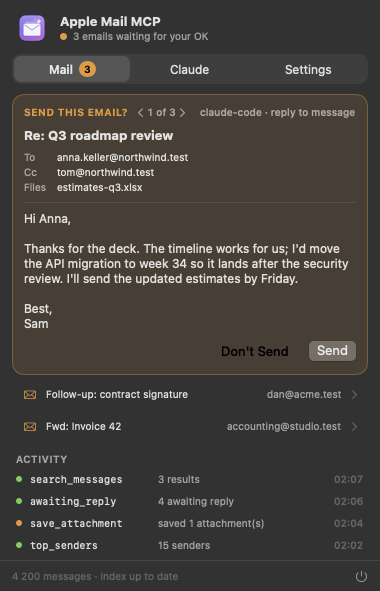
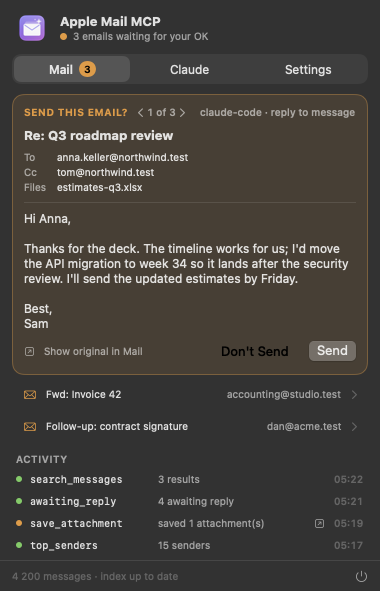
Show in Mail from activity rows and send approvals

diff --git a/Sources/MailMCPKit/Tools+Compose.swift b/Sources/MailMCPKit/Tools+Compose.swift
@@ -113,7 +113,7 @@ extension MailToolbox {
             let draftID = mode == .draft ? await self.settleDraft(handle, subject: subject, after: started) : nil
             return ToolReply(
                 json: .obj(self.draftResult(mode, draftID: draftID) + [("to", .array(to.map { .string($0) })), ("subject", .string(subject))]),
-                summary: "\(mode.rawValue): \(Render.truncate(subject, 60))")
+                summary: "\(mode.rawValue): \(Render.truncate(subject, 60))", messageID: draftID)
         }
     }
 
@@ -175,7 +175,8 @@ extension MailToolbox {
                 recipients = recipients.filter { seen.insert($0.lowercased()).inserted }
                 try await self.authorizeSend(
                     tool: "reply_to_message", from: nil, to: recipients,
-                    cc: cc, bcc: bcc, subject: subject, body: body, attachments: attachments)
+                    cc: cc, bcc: bcc, subject: subject, body: body, attachments: attachments,
+                    originalLink: original.summary.mailLink)
             }
             let started = (try? self.store.maxMessageRowID()) ?? .max
             let handle = try await automation.reply(
@@ -184,7 +185,7 @@ extension MailToolbox {
             let draftID = mode == .draft ? await self.settleDraft(handle, subject: subject, after: started) : nil
             return ToolReply(
                 json: .obj(self.draftResult(mode, draftID: draftID) + [("in_reply_to", .int(id)), ("subject", .string(subject))]),
-                summary: "reply \(mode.rawValue): \(Render.truncate(subject, 60))")
+                summary: "reply \(mode.rawValue): \(Render.truncate(subject, 60))", messageID: draftID ?? id)
         }
     }
 
@@ -272,7 +273,8 @@ extension MailToolbox {
             let body = Self.forwardedBody(note: note, original: original)
             if mode == .send {
                 try await self.authorizeSend(
-                    tool: "forward_message", from: nil, to: to, cc: cc, bcc: bcc, subject: subject, body: body, attachments: files)
+                    tool: "forward_message", from: nil, to: to, cc: cc, bcc: bcc, subject: subject, body: body, attachments: files,
+                    originalLink: original.summary.mailLink)
             }
             let started = (try? self.store.maxMessageRowID()) ?? .max
             let handle = try await automation.compose(
@@ -285,7 +287,7 @@ extension MailToolbox {
                     ("attachments", files.isEmpty ? nil : .int(Int64(files.count))),
                     ("attachments_not_downloaded", skipped > 0 ? .int(Int64(skipped)) : nil),
                 ]),
-                summary: "forward \(mode.rawValue): \(Render.truncate(subject, 60))")
+                summary: "forward \(mode.rawValue): \(Render.truncate(subject, 60))", messageID: draftID ?? id)
         }
     }
 
@@ -302,7 +304,7 @@ extension MailToolbox {
             // A message:// link needs no Apple Events or automation permission.
             if let link = message.mailLink, let url = URL(string: link) {
                 let opened = await MainActor.run { NSWorkspace.shared.open(url) }
-                if opened { return ToolReply(json: .obj([("opened", .int(id))]), summary: "opened \(id)") }
+                if opened { return ToolReply(json: .obj([("opened", .int(id))]), summary: "opened \(id)", messageID: id) }
             }
             guard let mailbox = try store.mailbox(id: message.mailboxID) else { throw ToolError("Mailbox of message \(id) not found") }
             try await automation.open(id, in: MailboxTarget(mailbox))

diff --git a/Sources/MailMCPKit/MailToolbox.swift b/Sources/MailMCPKit/MailToolbox.swift
@@ -19,6 +19,8 @@ public enum ToolKind: String, Sendable {
 public struct ToolReply: Sendable {
     public var json: JSON
     public var summary: String
+    /// The message this call was about (or the draft it saved): the menu bar app offers "Show in Mail".
+    public var messageID: Int64? = nil
 }
 
 public struct ToolDefinition: Sendable {
@@ -193,7 +195,7 @@ public final class MailToolbox: @unchecked Sendable {
     /// Applies the send policy; may wait for approval in the menu bar app.
     func authorizeSend(
         tool: String, from: String?, to: [String], cc: [String], bcc: [String], subject: String, body: String,
-        attachments: [String]
+        attachments: [String], originalLink: String? = nil
     ) async throws {
         let current = settings.current
         switch current.sendPolicy {
@@ -209,7 +211,7 @@ public final class MailToolbox: @unchecked Sendable {
             let request = ApprovalRequest(
                 id: UUID(), created: Date(), tool: tool, client: clientName, from: from, to: to, cc: cc, bcc: bcc,
                 subject: subject, bodyPreview: Render.truncate(body, 600), attachments: attachments.map { ($0 as NSString).lastPathComponent },
-                status: .pending, decided: nil)
+                status: .pending, decided: nil, originalLink: originalLink)
             switch try await approvals.requestApproval(request, timeout: current.approvalTimeout) {
             case .approved: return
             case .denied: throw ToolError("The user declined to send this message. Nothing was sent.")
@@ -238,10 +240,12 @@ public final class MailToolbox: @unchecked Sendable {
         var ok = true
         var text: String
         var summary: String
+        var link: String?
         do {
             let reply = try await definition.run(Arguments(arguments))
             text = reply.json.serialized()
             summary = reply.summary
+            if let id = reply.messageID { link = (try? store.message(id: id))?.mailLink }
         } catch {
             ok = false
             text = "Error: \(error)"
@@ -252,7 +256,7 @@ public final class MailToolbox: @unchecked Sendable {
             ActivityEntry(
                 date: started, pid: ProcessInfo.processInfo.processIdentifier, client: clientName, tool: name, ok: ok,
                 milliseconds: Int(Date().timeIntervalSince(started) * 1000), summary: Render.truncate(summary, 160),
-                isWrite: definition.kind != .read))
+                isWrite: definition.kind != .read, link: link))
         return .init(content: [.text(text: text, annotations: nil, _meta: nil)], isError: ok ? nil : true)
     }
 

diff --git a/Sources/MailMCPBar/Views.swift b/Sources/MailMCPBar/Views.swift
@@ -386,10 +386,35 @@ struct ActivityRow: View {
             Text(entry.tool).font(.caption.monospaced()).frame(width: 120, alignment: .leading)
             Text(entry.summary).font(.caption).foregroundStyle(.secondary).lineLimit(1)
             Spacer(minLength: 4)
+            if let link = entry.link, let url = URL(string: link) {
+                ShowInMailButton(url: url, compact: true)
+            }
             Text(entry.date, format: .dateTime.hour().minute()).font(.caption2.monospacedDigit()).foregroundStyle(.tertiary)
         }
         .frame(height: 22)
         .help("\(entry.client ?? "unknown client") · \(entry.milliseconds) ms\(entry.ok ? "" : " · failed")")
+    }
+}
+
+/// Opens a message in Mail through its `message://` link (no Apple Events, no permission needed).
+struct ShowInMailButton: View {
+    let url: URL
+    var compact: Bool
+    var title = "Show in Mail"
+
+    var body: some View {
+        Button {
+            NSWorkspace.shared.open(url)
+        } label: {
+            if compact {
+                Image(systemName: "arrow.up.forward.app").font(.caption)
+            } else {
+                Label(title, systemImage: "arrow.up.forward.app").font(.caption)
+            }
+        }
+        .buttonStyle(.borderless)
+        .help(title)
+        .accessibilityLabel(title)
     }
 }
 
@@ -498,6 +523,9 @@ struct ApprovalBlock: View {
             Divider()
             Text(request.bodyPreview).font(.callout).lineLimit(10).fixedSize(horizontal: false, vertical: true)
             HStack {
+                if let link = request.originalLink, let url = URL(string: link) {
+                    ShowInMailButton(url: url, compact: false, title: "Show original in Mail")
+                }
                 Spacer()
                 Button("Don't Send", role: .cancel) { decide(false) }.glassButton()
                 Button("Send") { decide(true) }.glassButton(prominent: true).keyboardShortcut(.defaultAction)

diff --git a/Tests/MailMCPKitTests/ToolTests.swift b/Tests/MailMCPKitTests/ToolTests.swift
@@ -147,6 +147,10 @@ final class ReadToolTests {
         #expect(entries.first?.tool == "get_message")
         #expect(entries.first?.ok == true)
         #expect(entries.first?.summary.contains("Kubernetes") == false)
+        // The menu bar app's "Show in Mail" uses this link.
+        #expect(entries.first?.link == "message://%3Ckickoff@example.test%3E")
+        _ = await h.call("search_messages", ["subject": "kickoff"])
+        #expect(h.toolbox.activity?.recent().first?.link == nil)
     }
 }
 
@@ -350,6 +354,27 @@ final class ComposeToolTests {
         #expect(denied.isError && denied.text.contains("declined"))
         #expect(h.automation.calls == [.compose(OutgoingMessage(to: ["a@x.test"], subject: "Approved", body: "y"), .send)])
         #expect(approvals.pending().isEmpty)
+    }
+
+    @Test func replyApprovalLinksToTheOriginal() async throws {
+        var settings = Settings()
+        settings.sendPolicy = .confirm
+        settings.approvalTimeout = 10
+        let h = try Harness(settings: settings)
+        defer { h.remove() }
+        h.approvals.beat()
+        let approvals = h.approvals
+        let agent = Task { () -> String? in
+            while true {
+                if let request = approvals.pending().first {
+                    try approvals.decide(request.id, approve: false)
+                    return request.originalLink
+                }
+                try await Task.sleep(nanoseconds: 50_000_000)
+            }
+        }
+        _ = await h.call("reply_to_message", ["id": .int(Int(h.id("kickoff"))), "body": "ok", "mode": "send"])
+        #expect(try await agent.value == "message://%3Ckickoff@example.test%3E")
     }
 
     @Test func forwardComposesWithOriginalAndAttachments() async throws {

diff --git a/Sources/MailMCPKit/Tools+Read.swift b/Sources/MailMCPKit/Tools+Read.swift
@@ -248,7 +248,7 @@ extension MailToolbox {
                 ("headers", try arguments.bool("include_headers") ?? false
                     ? .array(detail.headers.map { .string("\($0.name): \($0.value)") }) : nil),
             ])
-            return ToolReply(json: json, summary: "message \(id)")
+            return ToolReply(json: json, summary: "message \(id)", messageID: id)
         }
     }
 
@@ -294,7 +294,9 @@ extension MailToolbox {
                 }
                 return .obj(entry)
             }
-            return ToolReply(json: .obj([("count", .int(Int64(items.count))), ("messages", .array(items))]), summary: "\(items.count) in thread")
+            return ToolReply(
+                json: .obj([("count", .int(Int64(items.count))), ("messages", .array(items))]), summary: "\(items.count) in thread",
+                messageID: messages.last?.id ?? id)
         }
     }
 
@@ -310,7 +312,7 @@ extension MailToolbox {
             let detail = try store.detail(id: id)
             return ToolReply(
                 json: .obj([("id", .int(id)), ("attachments", .array(detail.attachments.map(Self.attachmentJSON)))]),
-                summary: "\(detail.attachments.count) attachments")
+                summary: "\(detail.attachments.count) attachments", messageID: id)
         }
     }
 
@@ -339,7 +341,7 @@ extension MailToolbox {
             if truncated { text = String(decoding: text.utf8.prefix(maxBytes), as: UTF8.self) }
             return ToolReply(
                 json: .obj([("id", .int(id)), ("source", .string(text)), ("truncated", truncated ? .bool(true) : nil)]),
-                summary: "\(text.utf8.count) bytes")
+                summary: "\(text.utf8.count) bytes", messageID: id)
         }
     }
 

diff --git a/Sources/mail-bench/main.swift b/Sources/mail-bench/main.swift
@@ -425,10 +425,12 @@ case "demo":
         ("awaiting_reply", "4 awaiting reply", 47, true, false, 90),
         ("search_messages", "3 results", 44, true, false, 20),
     ]
+    let messageTools: Set<String> = ["get_thread", "get_message", "reply_to_message", "move_messages", "save_attachment"]
     for (tool, summary, ms, ok, write, ago) in entries {
         log.append(ActivityEntry(
             date: Date().addingTimeInterval(-ago), pid: 4242, client: "claude-code", tool: tool, ok: ok,
-            milliseconds: ms, summary: summary, isWrite: write))
+            milliseconds: ms, summary: summary, isWrite: write,
+            link: messageTools.contains(tool) ? "message://%3Cdemo-\(Int(ago))@northwind.test%3E" : nil))
     }
     let approvals = ApprovalCenter(directory: support.appending(path: "approvals"), heartbeat: support.appending(path: "agent.heartbeat"))
     if options.values["approval"] != nil {
@@ -443,7 +445,8 @@ case "demo":
             id: UUID(), created: Date().addingTimeInterval(-5), tool: "reply_to_message", client: "claude-code", from: nil,
             to: ["anna.keller@northwind.test"], cc: ["tom@northwind.test"], bcc: [], subject: "Re: Q3 roadmap review",
             bodyPreview: "Hi Anna,\n\nThanks for the deck. The timeline works for us; I'd move the API migration to week 34 so it lands after the security review. I'll send the updated estimates by Friday.\n\nBest,\nSam",
-            attachments: ["estimates-q3.xlsx"], status: .pending, decided: nil))
+            attachments: ["estimates-q3.xlsx"], status: .pending, decided: nil,
+            originalLink: "message://%3Croadmap@northwind.test%3E"))
     }
     report = """
         Demo data in \(folder.path). Run the app with:

diff --git a/Sources/MailMCPKit/Tools+Write.swift b/Sources/MailMCPKit/Tools+Write.swift
@@ -63,7 +63,7 @@ extension MailToolbox {
                 try data.write(to: URL(filePath: path), options: .atomic)
                 saved.append(.obj([("path", .string(path)), ("bytes", .int(Int64(data.count)))]))
             }
-            return ToolReply(json: .obj([("saved", .array(saved))]), summary: "saved \(saved.count) attachment(s)")
+            return ToolReply(json: .obj([("saved", .array(saved))]), summary: "saved \(saved.count) attachment(s)", messageID: id)
         }
     }
 
@@ -203,7 +203,8 @@ extension MailToolbox {
                 ("new_ids", mapping.isEmpty ? nil : .object(mapping)),
                 ("not_found", missing.isEmpty ? nil : .array(missing.map { .int($0) })),
             ])
-            return ToolReply(json: json, summary: "moved \(moved) to \(destination)")
+            let firstNew: Int64? = mapping.first.flatMap { if case .int(let id) = $0.1 { id } else { nil } }
+            return ToolReply(json: json, summary: "moved \(moved) to \(destination)", messageID: firstNew)
         }
     }
 
@@ -242,7 +243,7 @@ extension MailToolbox {
             if let color { changes.append("flagged \(color.name)") } else if let flagged { changes.append(flagged ? "flagged" : "unflagged") }
             return ToolReply(
                 json: .obj([("updated", .int(Int64(updated))), ("not_found", missing.isEmpty ? nil : .array(missing.map { .int($0) }))]),
-                summary: "\(changes.joined(separator: ", ")) \(updated)")
+                summary: "\(changes.joined(separator: ", ")) \(updated)", messageID: ids.count == 1 ? ids[0] : nil)
         }
     }
 

diff --git a/Sources/MailMCPKit/Activity.swift b/Sources/MailMCPKit/Activity.swift
@@ -12,10 +12,14 @@ public struct ActivityEntry: Codable, Sendable, Hashable, Identifiable {
     /// Short outcome, e.g. "12 results" or "moved 3 to Archive".
     public var summary: String
     public var isWrite: Bool
+    /// `message://` link of the message the call was about, when there is one.
+    public var link: String?
 
     public init(
-        date: Date, pid: Int32, client: String?, tool: String, ok: Bool, milliseconds: Int, summary: String, isWrite: Bool
+        date: Date, pid: Int32, client: String?, tool: String, ok: Bool, milliseconds: Int, summary: String, isWrite: Bool,
+        link: String? = nil
     ) {
+        self.link = link
         self.date = date
         self.pid = pid
         self.client = client
@@ -101,11 +105,14 @@ public struct ApprovalRequest: Codable, Sendable, Hashable, Identifiable {
     public var attachments: [String]
     public var status: Status
     public var decided: Date?
+    /// For a reply or forward: the original message, to look at before deciding.
+    public var originalLink: String?
 
     public init(
         id: UUID, created: Date, tool: String, client: String?, from: String?, to: [String], cc: [String], bcc: [String],
-        subject: String, bodyPreview: String, attachments: [String], status: Status, decided: Date?
+        subject: String, bodyPreview: String, attachments: [String], status: Status, decided: Date?, originalLink: String? = nil
     ) {
+        self.originalLink = originalLink
         self.id = id
         self.created = created
         self.tool = tool

diff --git a/CHANGELOG.md b/CHANGELOG.md
@@ -6,6 +6,11 @@ All notable changes to this project are documented here. The format follows
 
 ## [Unreleased]
 
+### Added
+
+- **Show in Mail**: activity rows about a message (read, replied, moved, flagged, drafted…) open it in Mail,
+  and a reply or forward waiting for approval links to the original.
+
 ## [0.1.0] - 2026-10-18
 
 First release.
